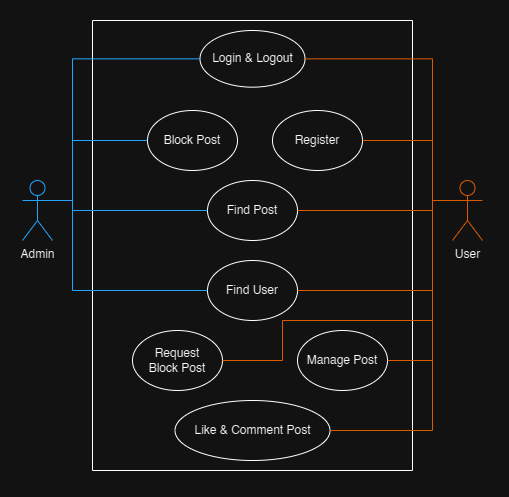
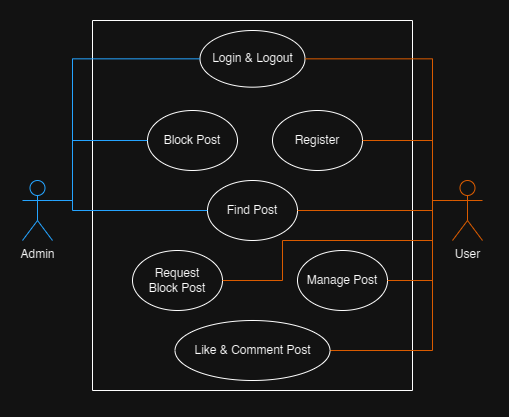
update readme

diff --git a/README.md b/README.md
@@ -6,9 +6,9 @@ REST API app for blog post management using Go and PostgreSQL. This app, is purp
 - [How to install (using Docker)](#how-to-install-using-docker)
 - [Usecase diagram](#usecase-diagram)
 - [ERD and database](#erd-and-database)
-- [Packages used](#packages-used)
+- [External library](#external-library)
 - [API documentation](#api-documentation)
-- [Login credentials](#login-credentials)
+- [Login dummy](#login-dummy)
 - [Logging](#logging)
 - [Unit test](#unit-test)
 - [Manual test](#manual-test)
@@ -65,6 +65,8 @@ docker composer up -d
 docker compose down
 docker image rm go_blog_backend:1.0.0
 docker volume rm go_blog_backend_logs
+docker volume rm go_blog_backend_postgres
+docker volume rm go_blog_backend_migrations
 ```
 
 ---
@@ -72,26 +74,46 @@ docker volume rm go_blog_backend_logs
 ## Usecase diagram
 ![usecase](./docs/diagrams/usecase.png)
 
-In this app, there are 3 actors:
-- Admin : User who has access to block posts
-- User : User who has acces to manage, find, like, and comment post
+In this app, there are 2 actors:
+- Admin : User who has access to find and block posts
+- User : User who has acces to manage, find, like, comment, and request block post
 
 ## ERD and database
 ![erd](./docs/diagrams/erd.png)
 
+- Database service: PostgreSQL
 - Database migrations folder [./app/migrations/](./app/migrations/)
 
-## Packages used
+## External library
+- [joho/godotenv](https://github.com/joho/godotenv)
+- [gofiber/fiber](https://github.com/gofiber/fiber)
+- TODO: external lib list
 
 ## API documentation
-- API docs folder [./docs/api/](./docs/api/)
+- API documentation folder [./docs/api/](./docs/api/)
+- All API specification documented using Markdown
 
-## Login credentials
+## Login dummy
+```
+// Admin
+Email: admin@mail.com
+Pass: admin123
+```
+```
+// User
+Email: user@mail.com
+Pass: user123
+```
 
 ## Logging
+- Logging folder [./logs/](./logs/)
+- The logging output stored in ```app.log``` file
 
 ## Unit test
 ```Requirement: Go Programming Language```
 
-## Manual test
-```If using VSCode, Requirement: REST Client by Huachao Mao```
+- Unit testing folder [./tests/](./tests/)
+- Run this command in terminal
+```go
+go test -v ./tests
+```
